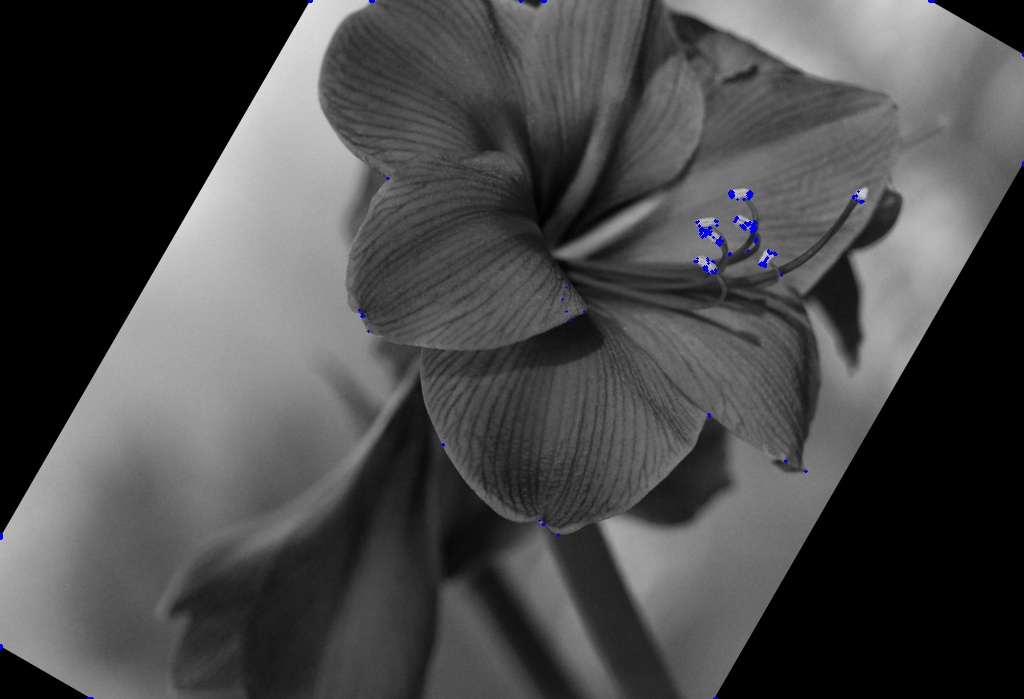
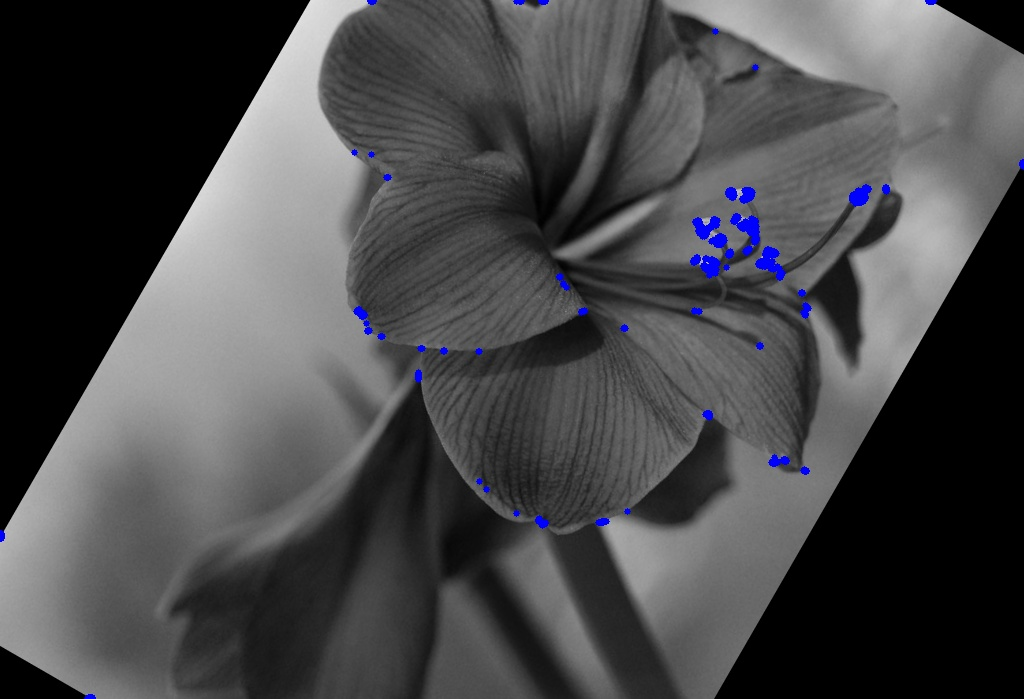
almost done, need to fix scaling

diff --git a/Homework-4/main.py b/Homework-4/main.py
@@ -7,7 +7,7 @@ def canny_corner(image, filename):
 
     # Corner
     # Apply Harris Corner Detection
-    corners = cv.cornerHarris(image, blockSize= 2, ksize = 3, k = 0.04)
+    corners = cv.cornerHarris(image, blockSize= 3, ksize = 5, k = 0.05)
 
     # Threshold for selecting strong corners
     threshold = 0.001 * corners.max()
@@ -16,7 +16,7 @@ def canny_corner(image, filename):
     # Draw larger circles around the detected corners
     image_with_corners = cv.cvtColor(image, cv.COLOR_GRAY2BGR)  # Convert to color for blue circles
     for y, x in zip(*corner_coordinates):
-        cv.circle(image_with_corners, (x, y), 1, (255, 0, 0), -1)  # Blue circles
+        cv.circle(image_with_corners, (x, y), 3, (255, 0, 0), -1)  # Blue circles
 
 
     # Save the output images
@@ -38,8 +38,29 @@ rotated_image = cv.warpAffine(original_image, rotation_matrix, (width, height))
 cv.imwrite("rotated_image.jpg", rotated_image)
 canny_corner(rotated_image, "rotated_image")
 
+# FIX HERE - THIS ONE IS NOT WORKING
 # 3) Scale the original image by 1.6 in both the x and y-directions and perform (1)
+scale_factor = 1.6
+scaled_image = cv.resize(original_image, None, fx = scale_factor, fy = scale_factor) # dsize parameter set to (0, 0) since we are using scaling factor
+cv.imwrite("scaled_image.jpg", scaled_image)
+canny_corner(scaled_image, "scaled_image")
 
+# 4) Shear the original image in the x-direction by 1.2 and perform (1)
+shear_matrix = np.array([[1, 1.2, 0],
+                          [0, 1, 0],
+                          [0, 0, 1]])
 
+sheared_img = cv.warpPerspective(original_image, shear_matrix, (int(width * 1.5), int(height * 1.5))) # Scaling output image dimensions by 1.5 to see full shear
+cv.imwrite("sheared_image_x.jpg", sheared_img)
+canny_corner(sheared_img, "sheared_img_x")
+
+# 5) Shear the original image in the y-direction by 1.4 and perform (1)
+shear_matrix = np.array([[1, 0, 0],
+                          [1.2, 1, 0],
+                          [0, 0, 1]])
+
+sheared_img = cv.warpPerspective(original_image, shear_matrix, (int(width * 1.5), int(height * 1.5))) # Scaling output image dimensions by 1.5 to see full shear
+cv.imwrite("sheared_image_y.jpg", sheared_img)
+canny_corner(sheared_img, "sheared_img_y")
 
 
